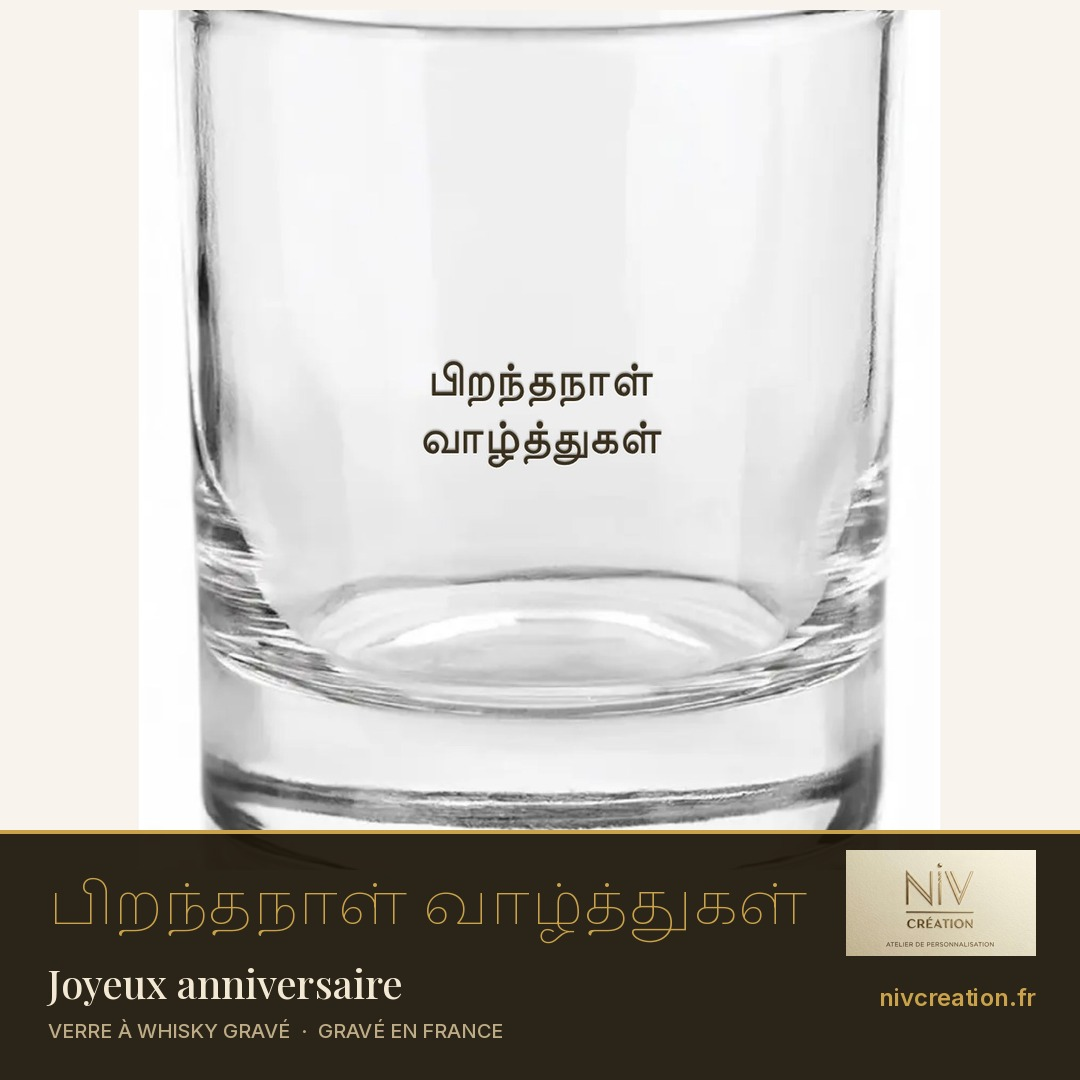
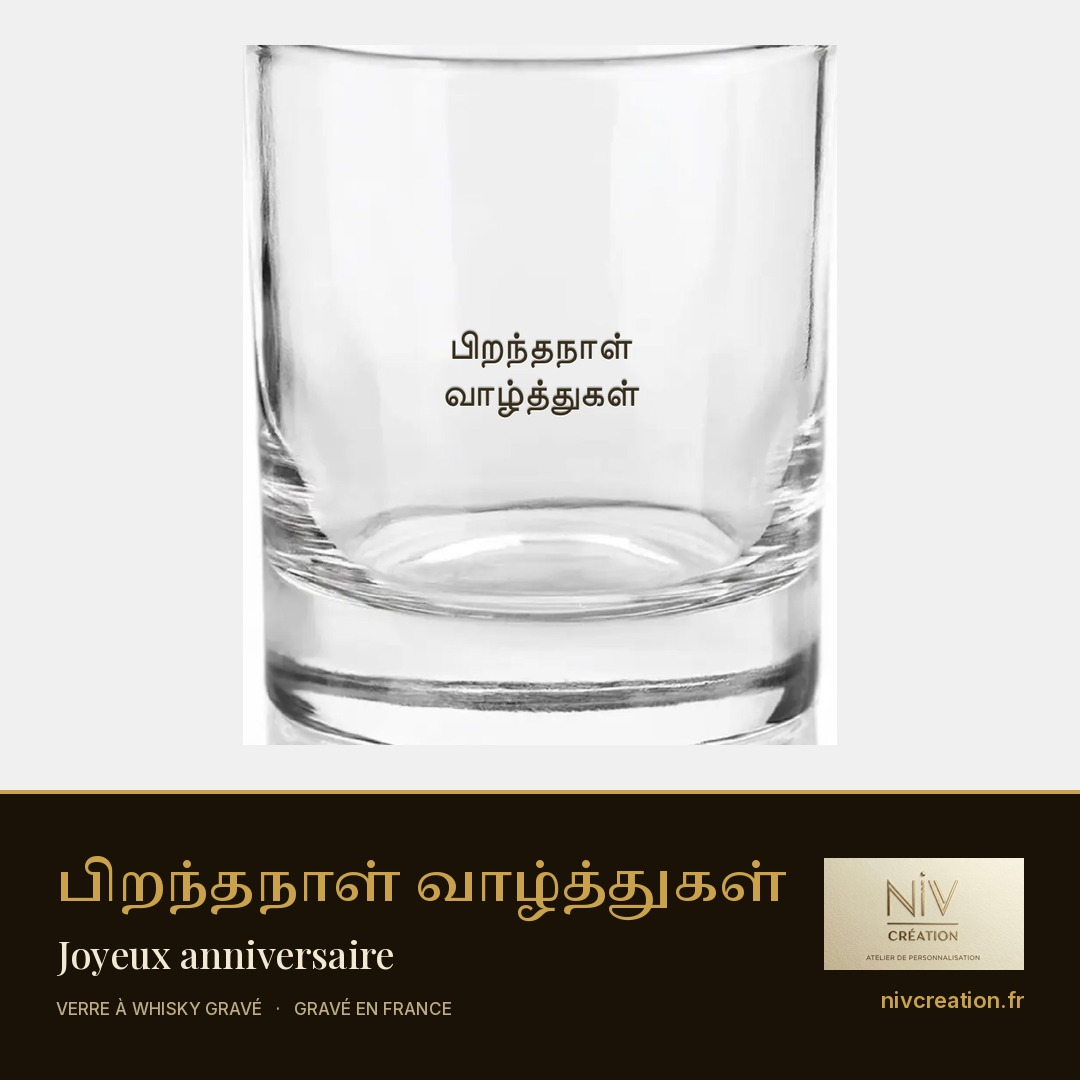
Images tamoules réseaux v2 : produit entier au-dessus du bandeau, textes contrôlés, Quatre Mots et enveloppe retirés
Claude-Session: https://claude.ai/code/session_013Nt78VnTBT8S9aqZe85f4z

Changed region(s): [[0.0, 0.0, 1.0, 0.9778], [0.3972, 0.3056, 0.6111, 0.4278]]

diff --git a/tools/maquettes/tamoul-reseaux.py b/tools/maquettes/tamoul-reseaux.py
@@ -25,7 +25,7 @@ def font(name, size, wght=None, axes=None):
 def masque(lines, maxw, maxh, fam="NotoSansTamil"):
     size = 400
     for _ in range(40):
-        f = font(fam, size, axes=[100, 600])
+        f = font(fam, size, axes=[600, 100])
         d = ImageDraw.Draw(Image.new("L", (10, 10)))
         bbs = [d.textbbox((0, 0), t, font=f) for t in lines]
         w = max(b[2] - b[0] for b in bbs); lh = int(size * 1.12); inter = int(size * .3)
@@ -64,16 +64,16 @@ PH = {  # phrase : tamoul, sens
   "enrendrum": ("என்றென்றும்", "Pour toujours"), "anniv-prenom": ("பிறந்தநாள் வாழ்த்துகள் · பிரியா", "Joyeux anniversaire, Priya"),
 }
 
-RENDUS = [  # bijoux sans aperçu du site
-  ("coeur-ouvrable", "catalogue/il_fullxfull.8055354801_l7f2.jpg", ["உன்னை", "காதலிக்கிறேன்"], .66, .50, .30, .26, -4, "kadhal", "Médaillon cœur ouvrable"),
+RENDUS = [  # bijoux sans aperçu du site : (id, photo, lignes, cx, cy, w, h, angle, phrase, produit) — mesuré sur la photo
+  ("coeur-ouvrable", "catalogue/il_fullxfull.8055354801_l7f2.jpg", ["உன்னை", "காதலிக்கிறேன்"], .585, .575, .17, .11, -14, "kadhal", "Médaillon cœur ouvrable"),
   ("coeur-grave", "collier-coeur-grave-3.jpg", ["அன்பு"], .50, .60, .15, .08, 0, "anbu", "Collier cœur gravé"),
-  ("medaillon", "collier-medaillon-pivotant-1.jpg", ["என்றென்றும்"], .56, .60, .19, .07, 0, "enrendrum", "Médaillon pivotant"),
-  ("quatre-mots", "collier-quatre-mots-3.jpg", ["என் உயிரே"], .455, .70, .19, .032, -90, "uyire", "Collier Quatre Mots"),
+  ("medaillon", "collier-medaillon-pivotant-1.jpg", ["என்றென்றும்"], .478, .635, .13, .05, 0, "enrendrum", "Médaillon pivotant"),
   ("cordon", "bracelet-cordon-plaque-2.jpg", ["அன்பு"], .39, .65, .14, .05, 0, "anbu", "Bracelet cordon à plaque"),
-  ("enveloppe", "catalogue/il_fullxfull.7864685296_55z9.jpg", ["என் உயிரே"], .715, .565, .10, .04, 28, "uyire", "Collier enveloppe message secret"),
-  ("gourmette-photo", "bracelet-gourmette-plaque-1.jpg", ["அப்பா"], .71, .60, .26, .09, 34, "appa", "Bracelet gourmette à plaque"),
-  ("homme-plaque-photo", "bracelet-homme-plaque-1.jpg", ["உலகின் சிறந்த அப்பா"], .59, .49, .26, .045, -90, "best-appa", "Bracelet homme cuir & plaque"),
+  ("gourmette-photo", "bracelet-gourmette-plaque-1.jpg", ["அப்பா"], .655, .638, .19, .045, 27, "appa", "Bracelet gourmette à plaque"),
+  ("homme-plaque-photo", "bracelet-homme-plaque-1.jpg", ["உலகின் சிறந்த அப்பா"], .552, .44, .27, .04, -90, "best-appa", "Bracelet homme cuir & plaque"),
 ]
+# Retirés le 06/11 (texte illisible ou sur une gravure déjà présente) : Quatre Mots (barre de 2 mm déjà gravée sur la photo),
+# collier enveloppe (pas de face plane assez grande visible).
 for id_, photo, lines, cx, cy, w, h, ang, key, prod in RENDUS:
     grave_metal(photo, lines, cx, cy, w, h, ang, out=f"{SC}/rend/{id_}.jpg")
 
@@ -92,36 +92,94 @@ IMGS = [  # (fichier source, phrase, produit)
 ] + [(f"{SC}/rend/{r[0]}.jpg", r[8], r[9]) for r in RENDUS]
 
 # ─────────── composition 1080 × 1080 ───────────
+from PIL import ImageChops
 LOGO = Image.open(ROOT + "/public/logo-niv-creation.jpg").convert("RGB")
-OR = (201, 162, 75); CREME = (243, 232, 211); ENCRE = (26, 18, 6)
-def compose(src, key, prod, out):
-    im = Image.open(src).convert("RGB")
+OR = (201, 162, 75); CREME = (243, 232, 211); ENCRE = (26, 18, 6); GRIS = (190, 172, 135)
+ZH = 790                     # hauteur de la zone photo ; le bandeau prend le reste (290 px), rien ne passe dessous
+M = 56                       # marge gauche / droite du bandeau
+LOGO_W = 200
+
+def bord(im):  # couleur du fond = médiane des pixels du bord
+    W, H = im.size; px = [im.getpixel((x, y)) for x in range(0, W, max(1, W // 40)) for y in (0, H - 1)]
+    px += [im.getpixel((x, y)) for y in range(0, H, max(1, H // 40)) for x in (0, W - 1)]
+    return tuple(sorted(c[i] for c in px)[len(px) // 2] for i in range(3))
+
+def coins(im):  # couleur médiane des quatre coins
+    W, H = im.size; px = [im.getpixel((x, y)) for x in (2, W - 3) for y in (2, H - 3)]
+    return tuple(sorted(c[i] for c in px)[1] for i in range(3))
+
+def serre(im):  # retire le fond uni de la page (couleur du coin) ; fond de la zone = couleur des coins de ce qui reste
     bg = im.getpixel((3, 3))
-    # on serre sur le produit (fond uni), marge 5 %
-    from PIL import ImageChops
     diff = ImageChops.difference(im, Image.new("RGB", im.size, bg)).convert("L").point(lambda v: 255 if v > 18 else 0)
     bb = diff.getbbox()
-    if bb:
-        l, t, r, b = bb; px, py = int((r - l) * .05), int((b - t) * .05)
-        im = im.crop((max(0, l - px), max(0, t - py), min(im.width, r + px), min(im.height, b + py)))
-    if im.width > im.height * 1.15:  # image large (bracelets 3D) : on recadre au centre, la plaque en grand
-        c = int(max(im.height * 1.15, im.width * 0.48)); l = (im.width - c) // 2; im = im.crop((l, 0, l + c, im.height))
-    s = max(im.size); sq = Image.new("RGB", (s, s), bg); sq.paste(im, ((s - im.width) // 2, (s - im.height) // 2))
-    sq = sq.resize((1080, 1080), Image.LANCZOS)
-    # produit un peu remonté : le bandeau du bas prend 250 px
-    canvas = Image.new("RGB", (1080, 1080), bg)
-    prodim = sq.resize((860, 860), Image.LANCZOS); canvas.paste(prodim, (110, 0 if False else 10))
-    band = Image.new("RGBA", (1080, 250), ENCRE + (235,)); canvas.paste(band, (0, 830), band)
+    if not bb or (bb[2] - bb[0]) * (bb[3] - bb[1]) > .92 * im.width * im.height: return im, False, bg
+    im = im.crop(bb); return im, True, coins(im)
+
+def zone_photo(src):
+    im = Image.open(src).convert("RGB")
+    pr, uni, fond = serre(im)
+    if not uni:  # photo d'ambiance : elle remplit la zone (recadrage au centre)
+        r = 1080 / ZH; W, H = im.size
+        if W / H > r: w = int(H * r); im = im.crop(((W - w) // 2, 0, (W - w) // 2 + w, H))
+        else: h = int(W / r); top = (H - h) // 2; im = im.crop((0, top, W, top + h))
+        return im.resize((1080, ZH), Image.LANCZOS)
+    if pr.width > pr.height * 1.6:  # bracelet très large : on garde le centre (la plaque et un peu de chaîne)
+        # recadrage centré sur la plaque (la plus grosse masse claire), pas sur le milieu de l'image
+        g = ImageChops.difference(pr, Image.new("RGB", pr.size, fond)).convert("L").point(lambda v: 255 if v > 18 else 0)
+        cols = [sum(1 for y in range(0, pr.height, 3) if g.getpixel((x, y))) for x in range(pr.width)]
+        tot = sum(cols) or 1; cx = sum(x * v for x, v in enumerate(cols)) / tot
+        c = int(max(pr.height * 1.6, pr.width * .62)); l = int(min(max(0, cx - c / 2), pr.width - c)); pr = pr.crop((l, 0, l + c, pr.height))
+    z = Image.new("RGB", (1080, ZH), fond)
+    k = min(960 / pr.width, (ZH - 90) / pr.height); pr = pr.resize((int(pr.width * k), int(pr.height * k)), Image.LANCZOS)
+    z.paste(pr, ((1080 - pr.width) // 2, (ZH - pr.height) // 2))
+    return z
+
+def largeur(d, t, f): b = d.textbbox((0, 0), t, font=f); return b[2] - b[0]
+
+def ajuste(d, t, fam, size, maxw, axes, mini):
+    f = font(fam, size, axes=axes)
+    while largeur(d, t, f) > maxw and size > mini: size -= 2; f = font(fam, size, axes=axes)
+    return f
+
+def coupe(t):  # deux lignes équilibrées, coupées à un espace
+    mots = t.split(); best = None
+    for i in range(1, len(mots)):
+        a, b = " ".join(mots[:i]), " ".join(mots[i:]); s = max(len(a), len(b))
+        if best is None or s < best[0]: best = (s, [a, b])
+    return best[1] if best else [t]
+
+def compose(src, key, prod, out):
+    canvas = Image.new("RGB", (1080, 1080), ENCRE); canvas.paste(zone_photo(src), (0, 0))
     d = ImageDraw.Draw(canvas)
-    d.rectangle([0, 830, 1080, 833], fill=OR)
+    d.rectangle([0, ZH, 1080, ZH + 3], fill=OR)
     ta, sens = PH[key]
-    fta = font("NotoSerifTamil", 58, axes=[100, 500])
-    while d.textbbox((0, 0), ta, font=fta)[2] > 760: fta = font("NotoSerifTamil", fta.size - 3, axes=[100, 500])
-    d.text((48, 862), ta, font=fta, fill=OR)
-    d.text((48, 955), sens, font=font("PlayfairDisplay", 40, axes=[500]), fill=CREME)
-    d.text((48, 1018), prod.upper() + "  ·  GRAVÉ EN FRANCE", font=font("Inter", 20, axes=[14, 500]), fill=(190, 172, 135))
-    lg = LOGO.copy(); lg.thumbnail((190, 110)); canvas.paste(lg, (1080 - lg.width - 44, 850))
-    d.text((1080 - 44 - d.textbbox((0, 0), "nivcreation.fr", font=font("Inter", 24, axes=[14, 600]))[2], 982), "nivcreation.fr", font=font("Inter", 24, axes=[14, 600]), fill=OR)
+    colw = 1080 - 2 * M - LOGO_W - 36           # colonne de texte, jamais sous le logo
+    TA = [600, 100]
+    f = font("NotoSerifTamil", 54, axes=TA); lignes = [ta]
+    if largeur(d, ta, f) > colw:
+        f2 = ajuste(d, ta, "NotoSerifTamil", 54, colw, TA, 44)
+        if largeur(d, ta, f2) <= colw: f = f2
+        else:
+            lignes = coupe(ta); f = font("NotoSerifTamil", 46, axes=TA)
+            while max(largeur(d, l, f) for l in lignes) > colw: f = font("NotoSerifTamil", f.size - 2, axes=TA)
+    fs = ajuste(d, sens, "PlayfairDisplay", 38, colw, [500], 26)
+    fp = font("Inter", 17, axes=[14, 500]); pl = prod.upper() + "   ·   GRAVÉ EN FRANCE"
+    lh = int(f.size * 1.42)
+    hb = lh * len(lignes) + 8 + 48 + 16 + 22
+    y = ZH + 4 + (1080 - ZH - 4 - hb) // 2
+    for l in lignes:
+        b = d.textbbox((0, 0), l, font=f); d.text((M - b[0], y + (lh - (b[3] - b[1])) // 2 - b[1]), l, font=f, fill=OR); y += lh
+    y += 8; b = d.textbbox((0, 0), sens, font=fs); d.text((M - b[0], y + (48 - (b[3] - b[1])) // 2 - b[1]), sens, font=fs, fill=CREME)
+    y += 48 + 16; d.text((M, y), pl, font=fp, fill=GRIS)
+    # logo + adresse, colonne de droite
+    lg = LOGO.copy(); lg.thumbnail((LOGO_W, 200)); ly = ZH + 4 + (1080 - ZH - 4 - (lg.height + 46)) // 2
+    canvas.paste(lg, (1080 - M - lg.width, ly))
+    fu = font("Inter", 22, axes=[14, 600]); u = "nivcreation.fr"
+    d.text((1080 - M - largeur(d, u, fu), ly + lg.height + 16), u, font=fu, fill=OR)
+    # contrôle : aucun texte du bandeau ne dépasse sa colonne
+    for l in lignes: assert largeur(d, l, f) <= colw, (out, l)
+    assert largeur(d, sens, fs) <= colw, (out, sens)
+    assert M + largeur(d, pl, fp) <= 1080 - M - LOGO_W - 36 or y > ly + lg.height + 46, (out, pl)
     canvas.save(out, quality=92)
 
 for i, (src, key, prod) in enumerate(IMGS, 1):

diff --git a/CLAUDE.md b/CLAUDE.md
@@ -10,7 +10,7 @@
   avec un mot court (அப்பா, நன்றி, அன்பு : plus grand, le site plafonne la taille d'une phrase longue à 14 %) + 5 bijoux à aperçu 3D (plaque acier doré
   அம்மா · gourmette identité அப்பா · chaîne acier « meilleur papa du monde » · silicone அப்பா · papillon என் அன்பே) + tableau de 19 phrases.
 - **IMAGES POUR LES RÉSEAUX (06/11, gérant : « si y en a pas, tu crées des images comme t'as fait pour le gobelet… tu mets rien sur le site, c'est juste pour
-  les réseaux sociaux »)** : 26 images carrées 1080 × 1080 (bandeau encre & or : phrase tamoule, sens, produit, logo, nivcreation.fr), galerie
+  les réseaux sociaux »)** : 24 images carrées 1080 × 1080 (v2 du 06/11 : produit entier au-dessus du bandeau, textes contrôlés ; Quatre Mots et enveloppe retirés) (bandeau encre & or : phrase tamoule, sens, produit, logo, nivcreation.fr), galerie
   https://claude.ai/artifact/QKxYQCFqHFS3YArL6gFMMp, zip `docs/maquettes/assets/tamoul-reseaux/gravure-tamoul-reseaux.zip` (non commité) + 3 exemples
   commités. Générateur `tools/maquettes/tamoul-reseaux.py <scratch> <sortie>` : verres = captures du site en DEUX lignes (texte + date : une phrase
   longue sur une ligne sort minuscule, le site plafonne), bijoux à aperçu 3D = captures du site, gobelets = moteur `gobelet-exemples.py` (`rendu()`
